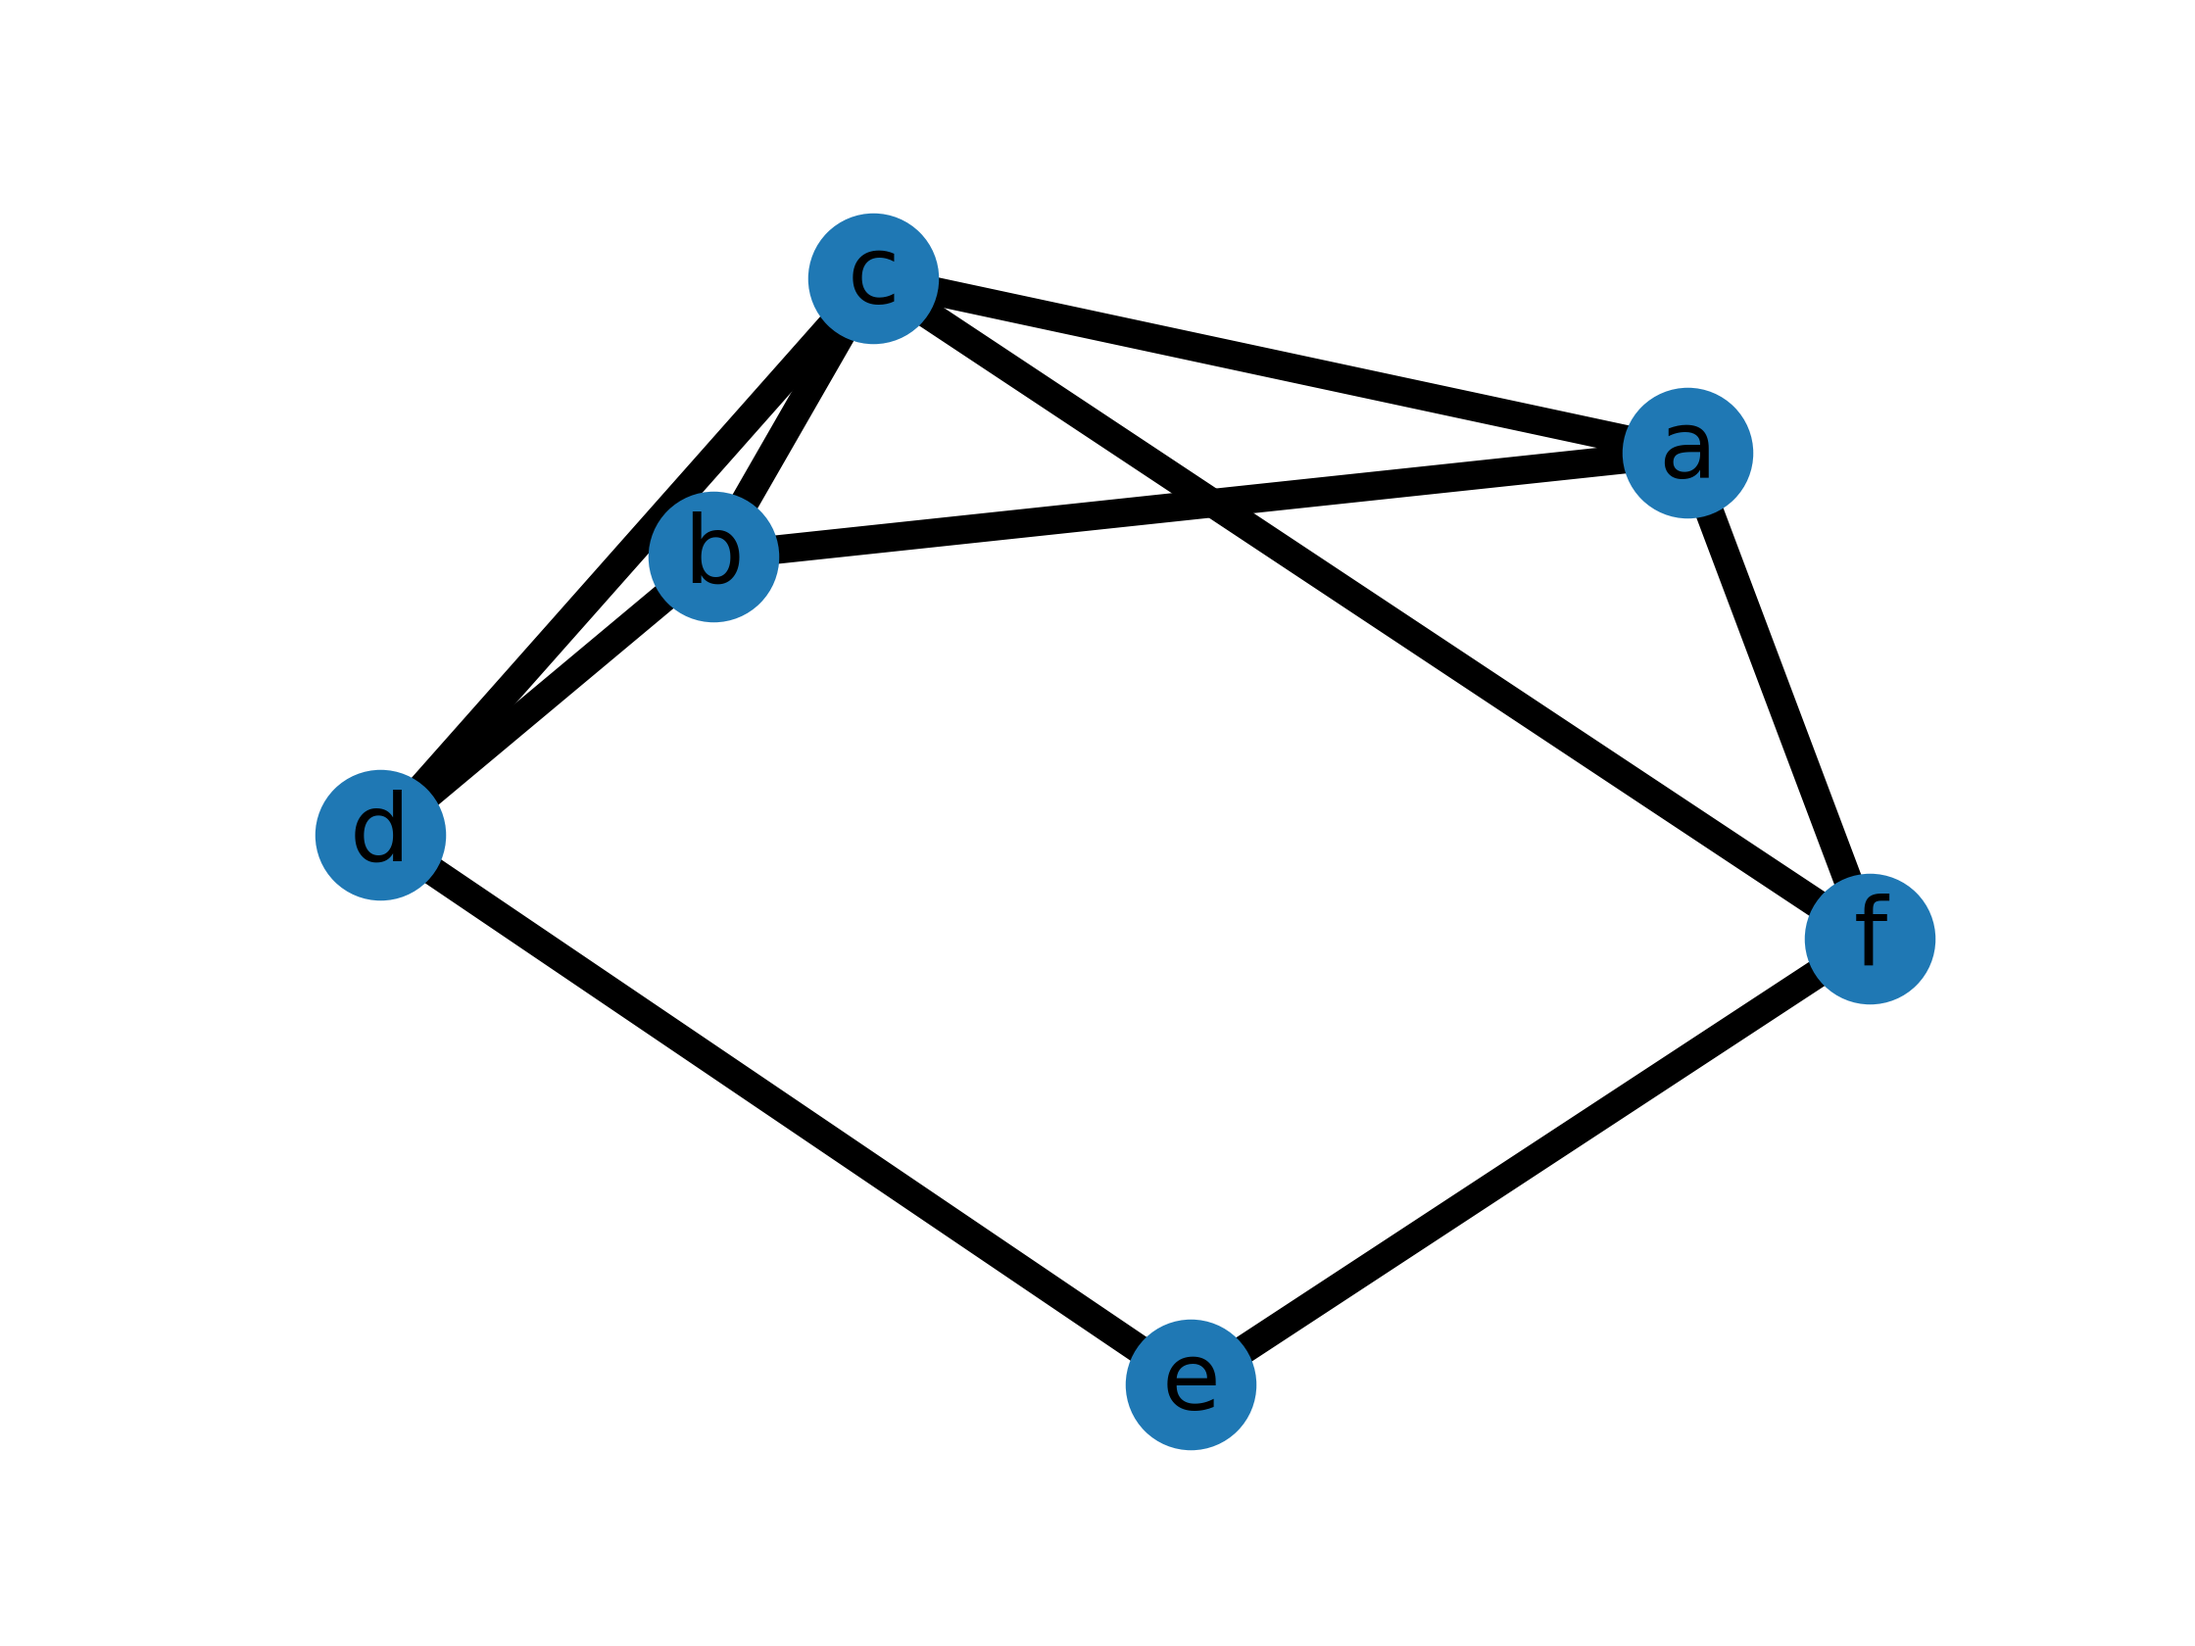
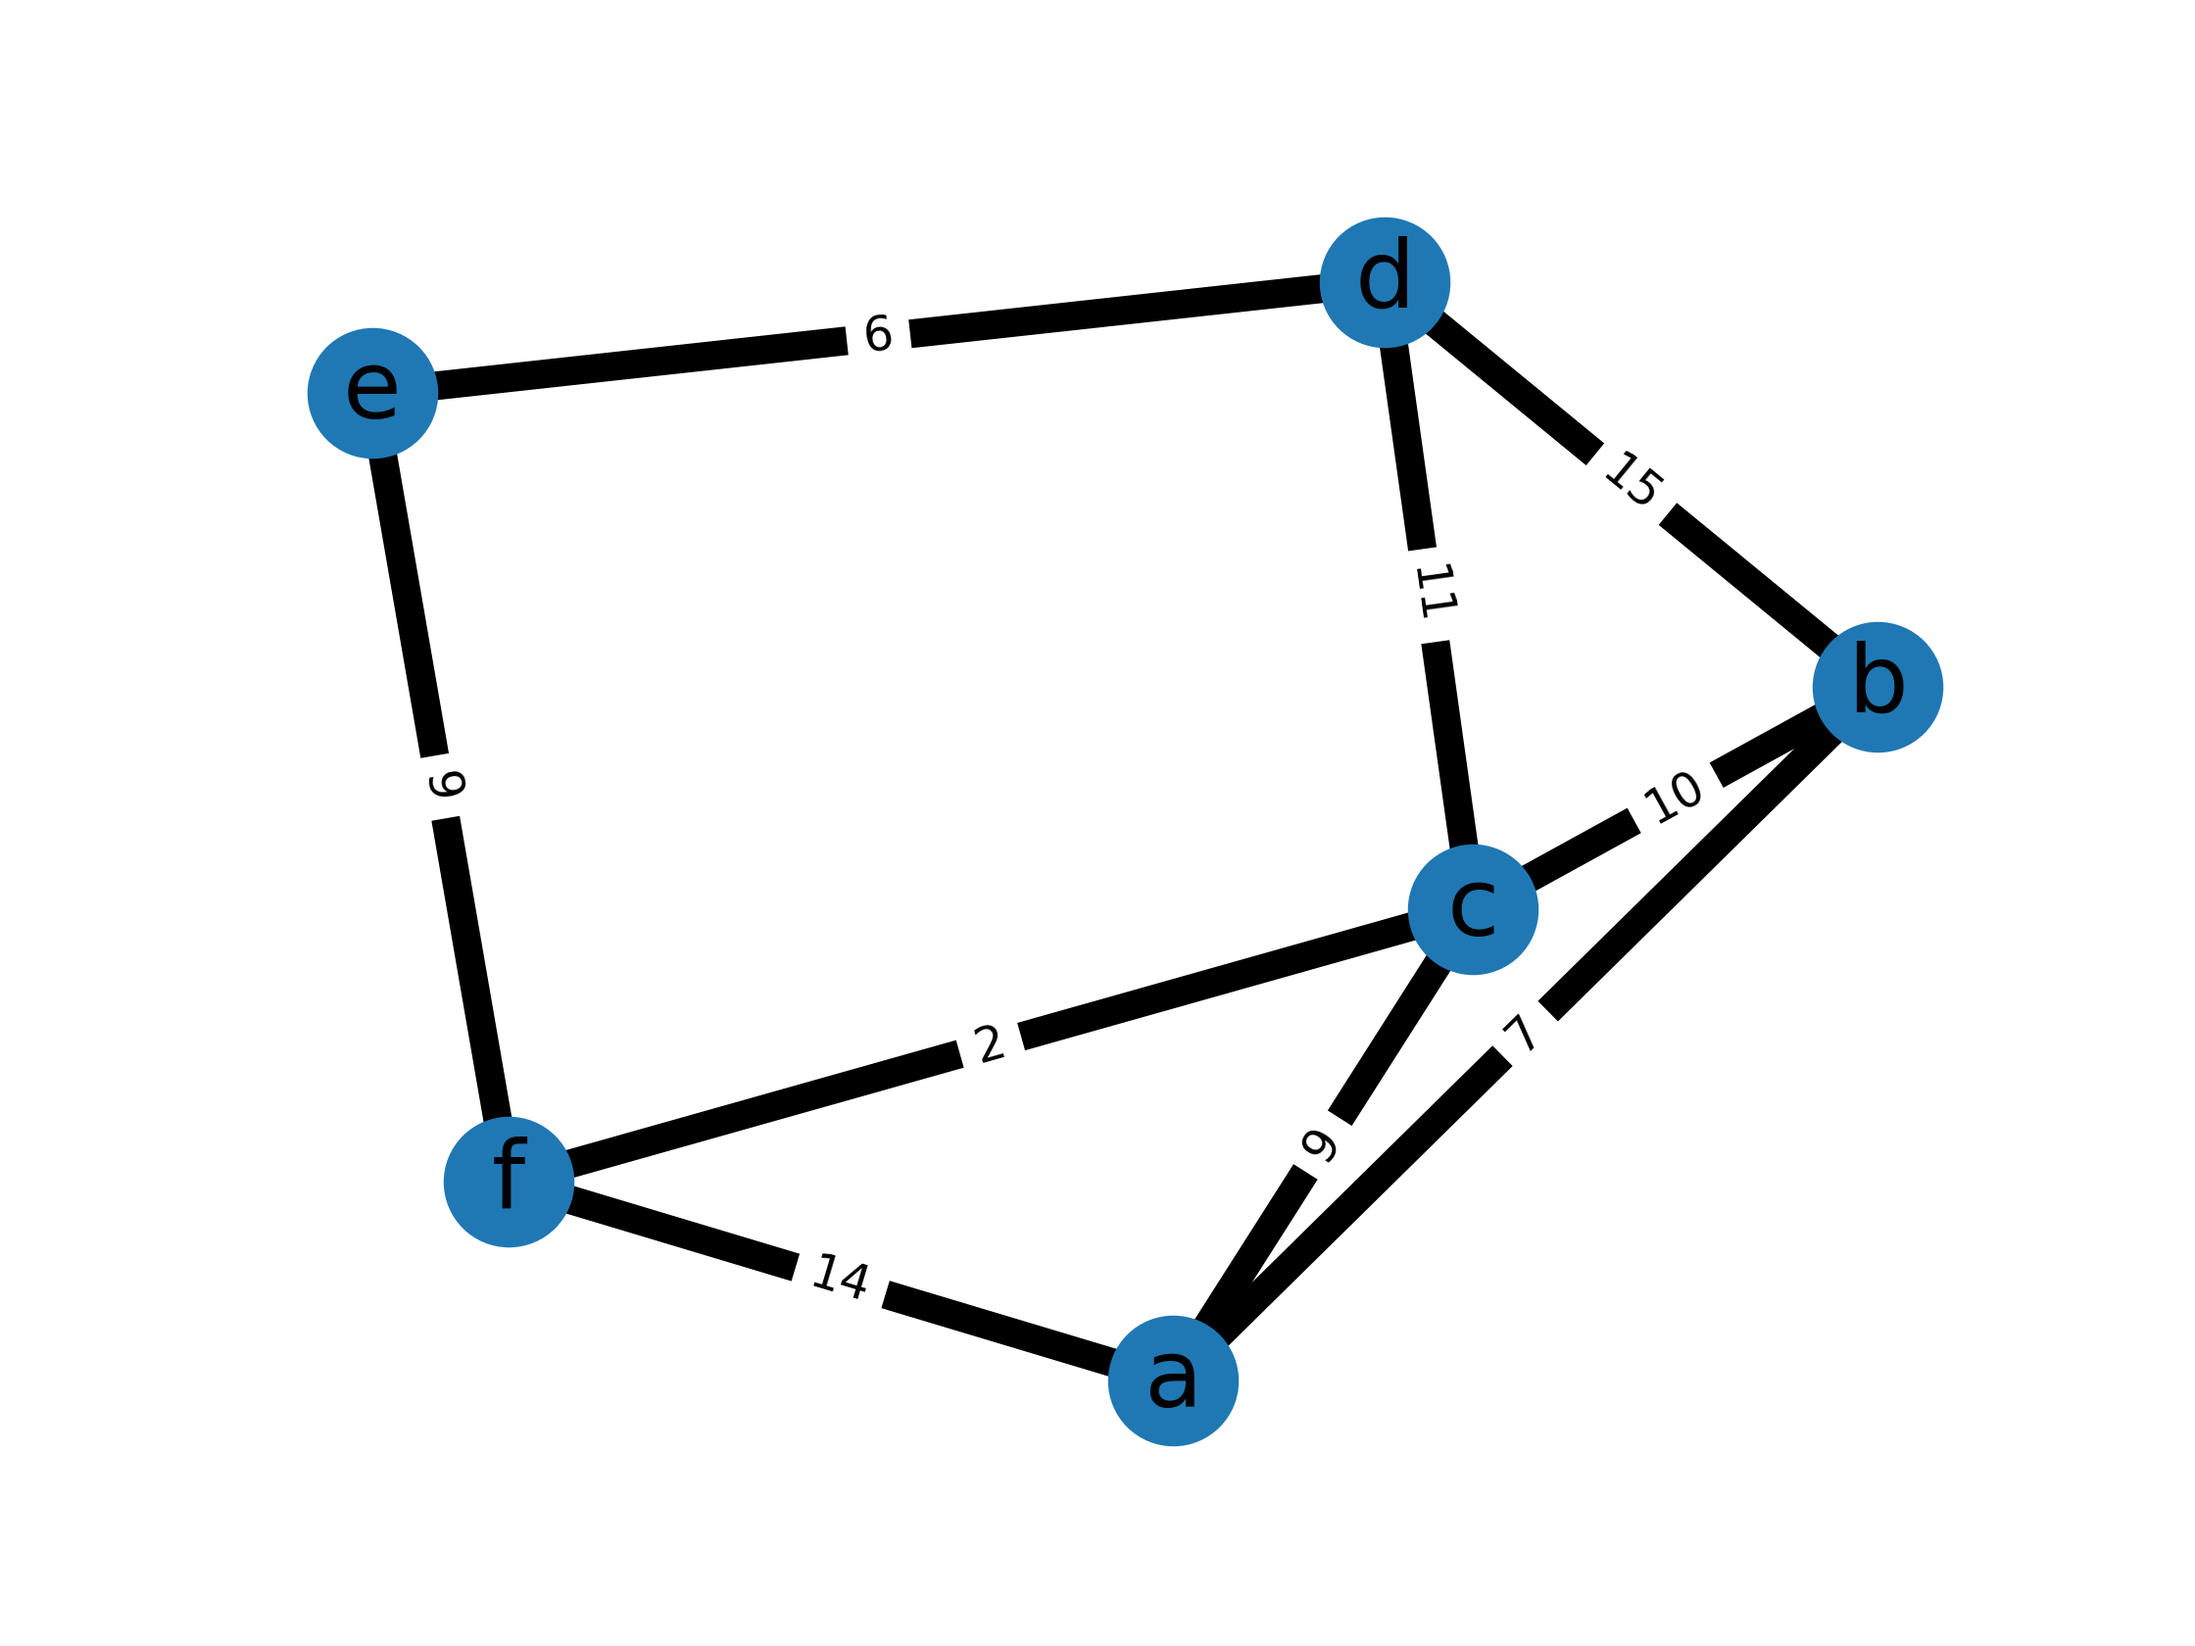
Added 'weight' label to each edges (HELL YEAH)

Changed region(s): [[0.125, 0.1238, 0.9062, 0.8976]]

diff --git a/ch07_graphs/plot_weighted_graph.py b/ch07_graphs/plot_weighted_graph.py
@@ -1,4 +1,6 @@
-# Ref: https://networkx.github.io/documentation/stable/auto_examples/drawing/plot_weighted_graph.html
+# References:
+# https://networkx.github.io/documentation/stable/auto_examples/drawing/plot_weighted_graph.html
+# https://stackoverflow.com/questions/56597840/drawing-weighted-graph-from-adjacency-matrix-with-edge-labels
 
 import matplotlib.pyplot as plt
 import networkx as nx
@@ -45,6 +47,9 @@ nx.draw_networkx_edges(
 
 # labels
 nx.draw_networkx_labels(Graph, pos, font_size=20, font_family="sans-serif")
+
+weight_labels = nx.get_edge_attributes(Graph, "weight")
+nx.draw_networkx_edge_labels(Graph, pos, weight_labels)
 
 plt.axis("off")
 
